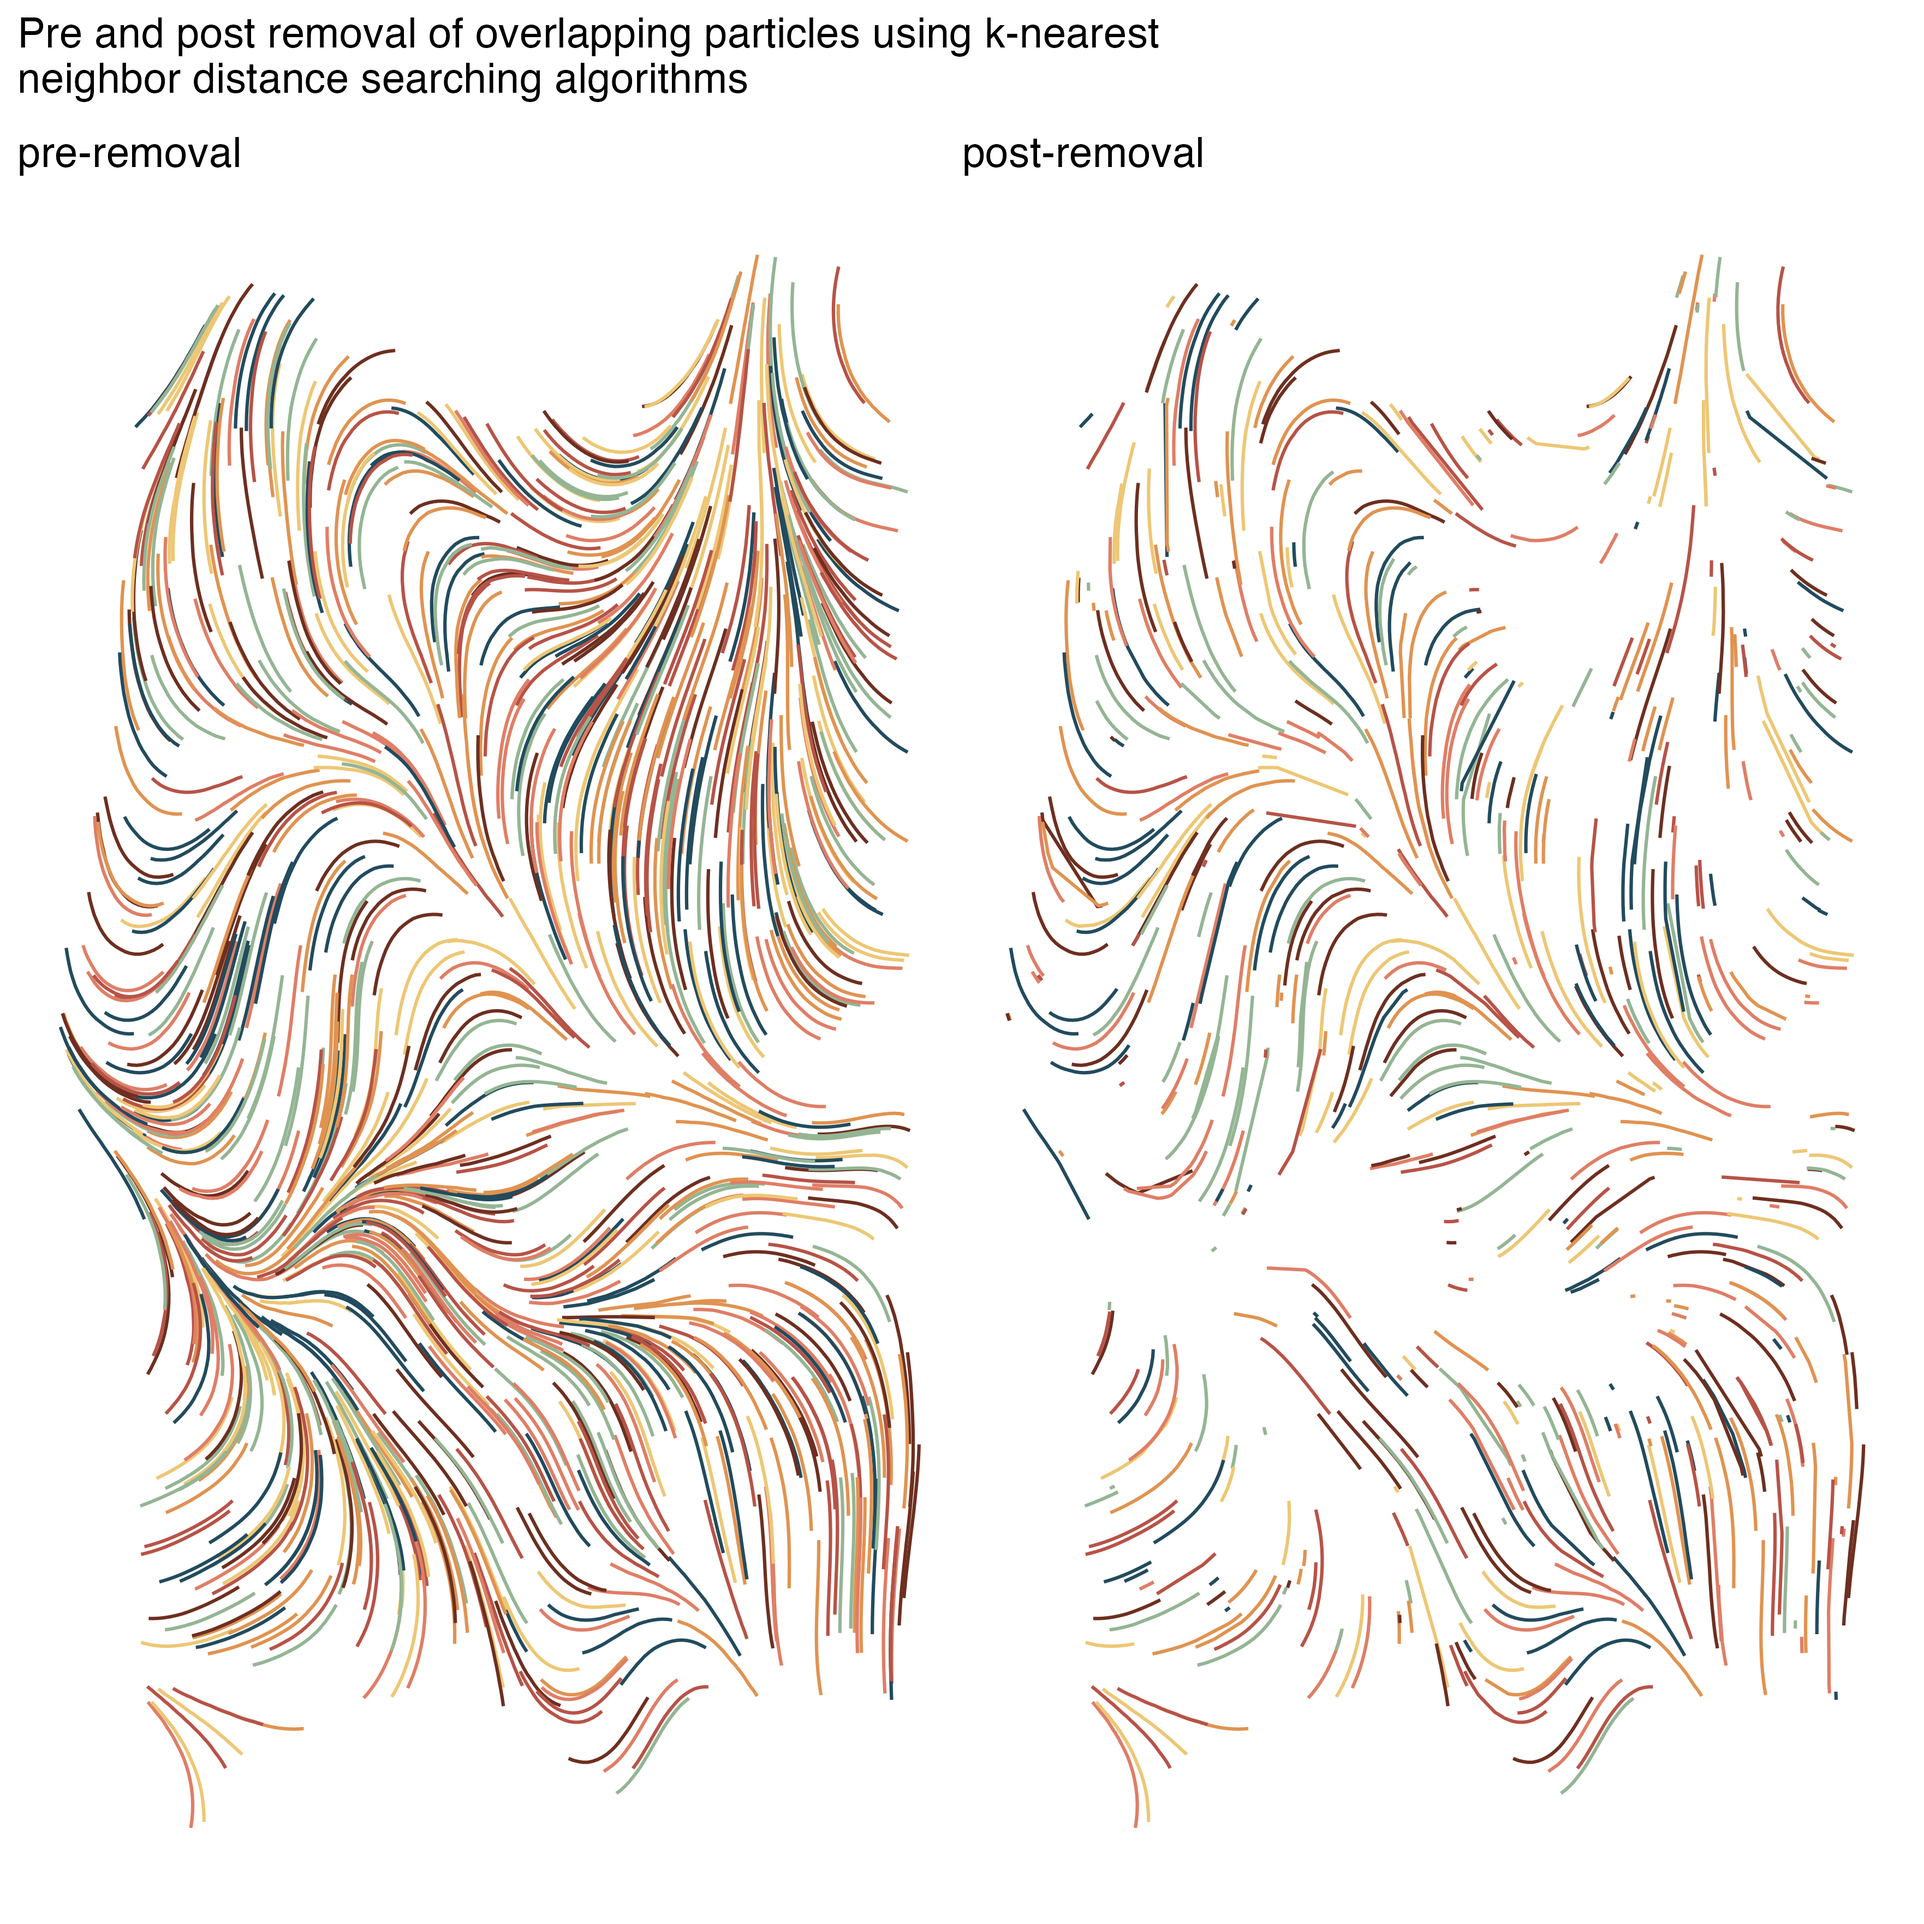
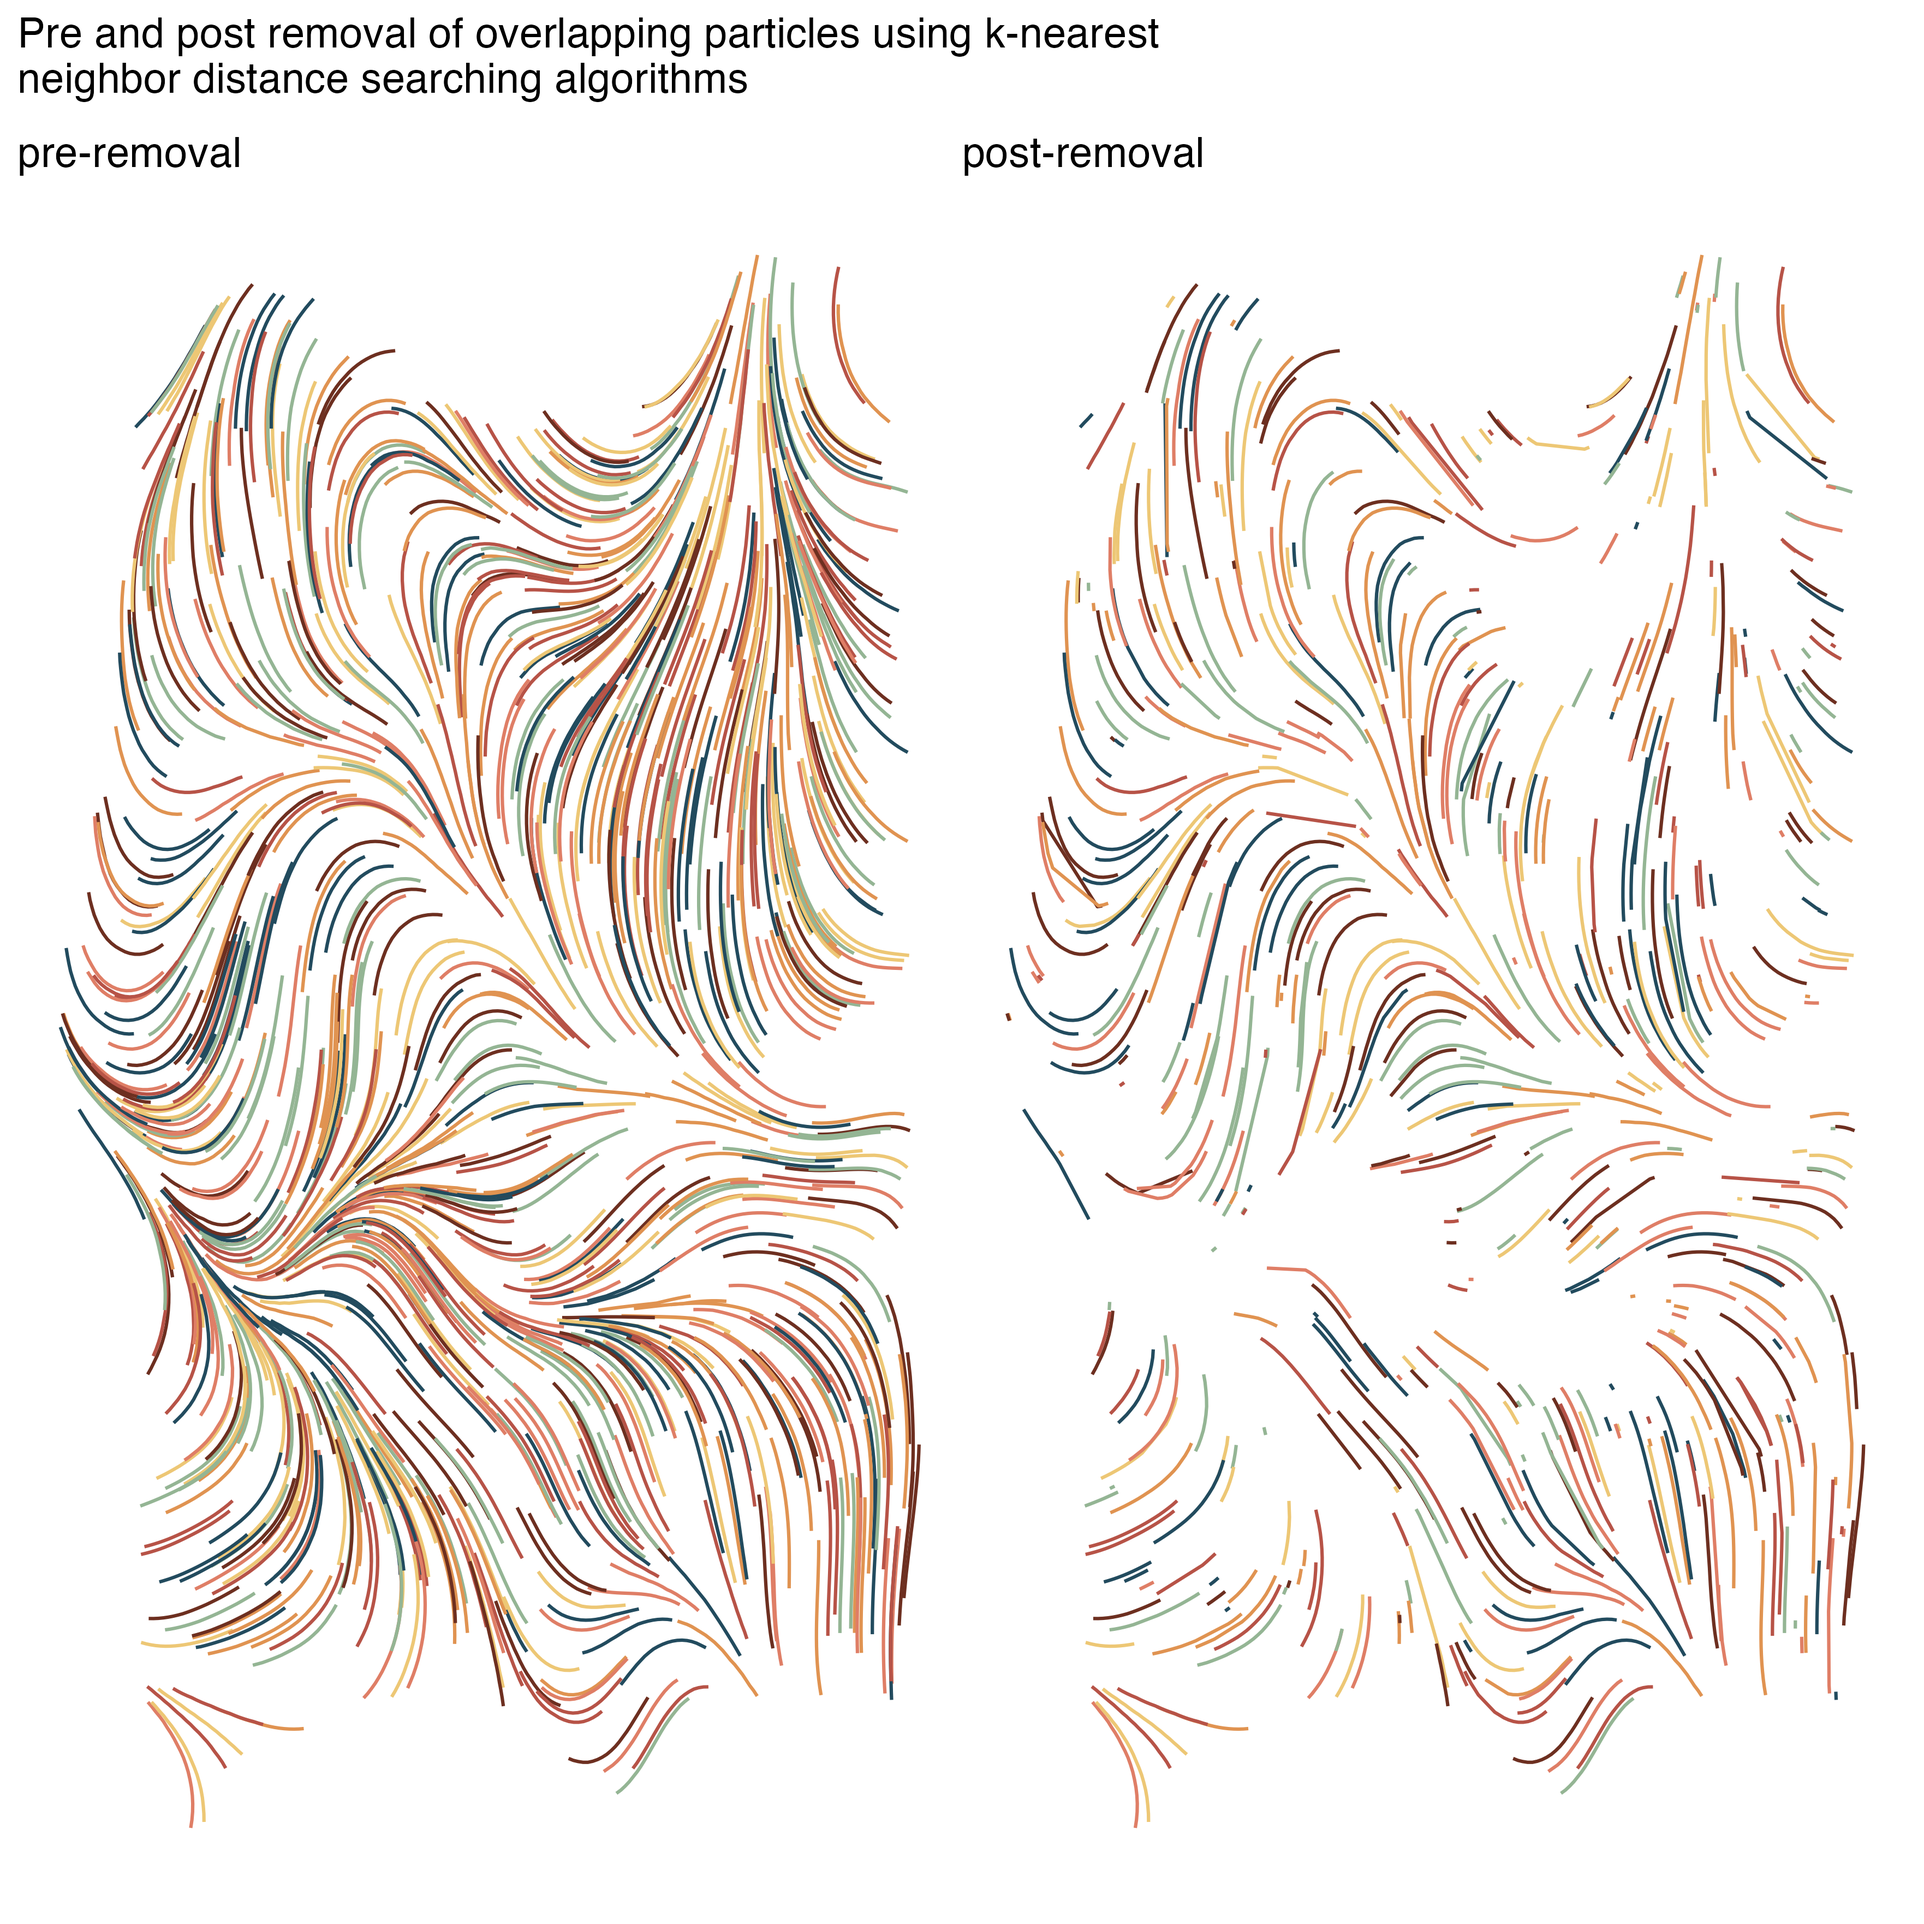
add coolors fun and new img

Changed region(s): [[0.2809, 0.2809, 0.3121, 0.3433]]

diff --git a/README.md b/README.md
@@ -6,7 +6,8 @@ Repository for making and testing out different types of flow fields. Some examp
 
 ![flow with geom_path](./outputs/streams_02.png)
 ![flow with geom_segment](./outputs/streams.png)
-
+![flow with light colours](./outputs/streams_03.png)
+ 
 ## Messing with parameters to make wave like flows
 
 ![flow like wave 1](./outputs/wave_02.png)
